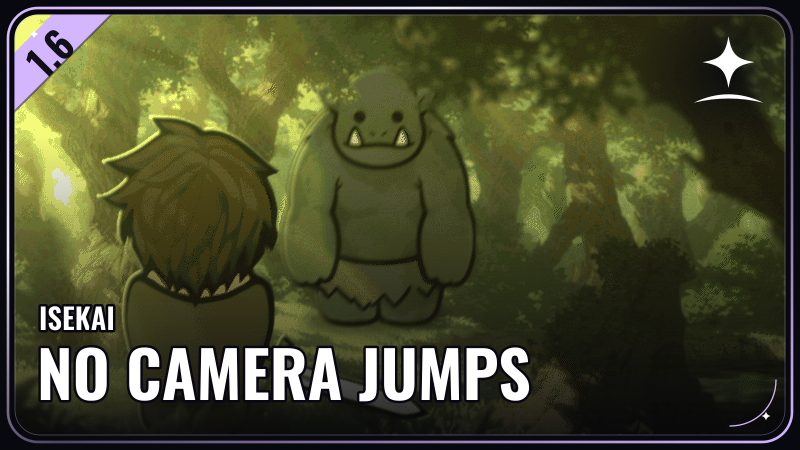
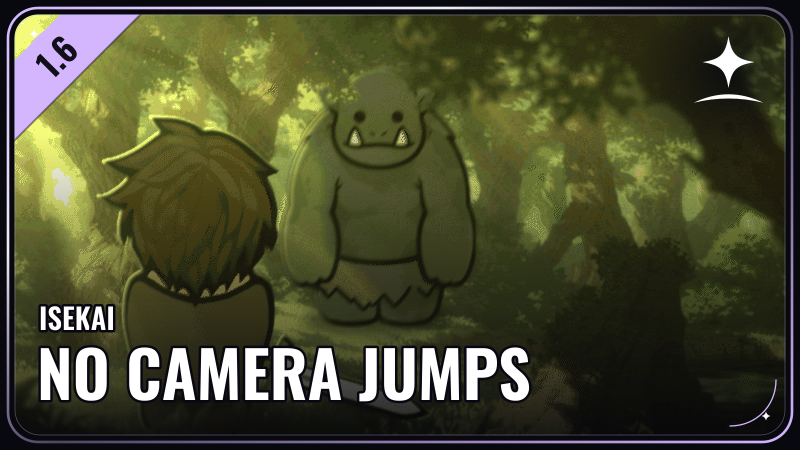
Polish mod covers and format release notes

Changed region(s): [[0.0, 0.0311, 0.1875, 0.3111]]

diff --git a/README.md b/README.md
@@ -1,4 +1,4 @@
-![Star Sky Mods — RimWorld mods, fixes and Russian translations](https://raw.githubusercontent.com/chupakobra6/star-sky-mods-assets/main/assets/star-sky-banner.png)
+![Star Sky Mods — RimWorld mods, fixes and Russian translations](https://raw.githubusercontent.com/chupakobra6/star-sky-assets/main/assets/star-sky-banner.png)
 
 # Star Sky Mods
 
@@ -8,7 +8,7 @@ RimWorld mods, fixes and Russian translations by **chupakobra6**. All releases a
 
 | Balanced Stats | Quick Quests | No Auto Camera Jump |
 | :---: | :---: | :---: |
-| [![ISEKAI Balanced Stats](https://raw.githubusercontent.com/chupakobra6/star-sky-mods-assets/main/assets/isekai-balanced.png)](https://steamcommunity.com/sharedfiles/filedetails/?id=3789339468) | [![ISEKAI Quick Quests](https://raw.githubusercontent.com/chupakobra6/star-sky-mods-assets/main/assets/isekai-quests.png)](https://steamcommunity.com/sharedfiles/filedetails/?id=3802965084) | [![ISEKAI No Auto Camera Jump](https://raw.githubusercontent.com/chupakobra6/star-sky-mods-assets/main/assets/isekai-camera.png)](https://steamcommunity.com/sharedfiles/filedetails/?id=3789336886) |
+| [![ISEKAI Balanced Stats](https://raw.githubusercontent.com/chupakobra6/star-sky-assets/main/assets/isekai-balanced.png)](https://steamcommunity.com/sharedfiles/filedetails/?id=3789339468) | [![ISEKAI Quick Quests](https://raw.githubusercontent.com/chupakobra6/star-sky-assets/main/assets/isekai-quests.png)](https://steamcommunity.com/sharedfiles/filedetails/?id=3802965084) | [![ISEKAI No Auto Camera Jump](https://raw.githubusercontent.com/chupakobra6/star-sky-assets/main/assets/isekai-camera.png)](https://steamcommunity.com/sharedfiles/filedetails/?id=3789336886) |
 | Choose how colonists and pets spend their automatic stat points. | Middle-click an ISEKAI quest letter to accept it when no choice is needed. | Keep your camera in place when local ISEKAI hunts spawn. |
 | [Workshop](https://steamcommunity.com/sharedfiles/filedetails/?id=3789339468) · [Source & guide](mods/IsekaiBalancedStatsQuickQuests) | [Workshop](https://steamcommunity.com/sharedfiles/filedetails/?id=3802965084) · [Source & guide](mods/IsekaiQuickQuests) | [Workshop](https://steamcommunity.com/sharedfiles/filedetails/?id=3789336886) · [Source & guide](mods/IsekaiNoAutoCameraJump) |
 
@@ -26,8 +26,8 @@ Each mod’s guide explains settings, load order and upgrading. Its `CHANGELOG.m
 
 If you enjoy the mods, optional support helps me spend more time building and maintaining them. The mods remain free.
 
-[![Support on Boosty](https://raw.githubusercontent.com/chupakobra6/star-sky-mods-assets/main/assets/button-support.png)](https://boosty.to/chupakobra6?utm_source=github&utm_medium=repository&utm_campaign=star_sky_mods&utm_content=readme&utm_term=support)
-[![Explore other mods](https://raw.githubusercontent.com/chupakobra6/star-sky-mods-assets/main/assets/button-workshop.png)](https://steamcommunity.com/id/chupakobra6/myworkshopfiles/?appid=294100)
+[![Support on Boosty](https://raw.githubusercontent.com/chupakobra6/star-sky-assets/main/assets/button-support.png)](https://boosty.to/chupakobra6?utm_source=github&utm_medium=repository&utm_campaign=star_sky_mods&utm_content=readme&utm_term=support)
+[![Explore other mods](https://raw.githubusercontent.com/chupakobra6/star-sky-assets/main/assets/button-workshop.png)](https://steamcommunity.com/id/chupakobra6/myworkshopfiles/?appid=294100)
 
 ## Source and rights
 

diff --git a/mods/IsekaiBalancedStatsQuickQuests/CHANGELOG.md b/mods/IsekaiBalancedStatsQuickQuests/CHANGELOG.md
@@ -1,18 +1,24 @@
 # Changelog
 
-## 1.2.0 — 2026-09-17
+## 1.2.0 — Balanced Stats, now on its own — 2026-09-17
 
-- Renamed the mod to ISEKAI — Balanced Stats [Star Sky Mods].
-- Moved middle-click quest acceptance into the separate ISEKAI — Quick Quests mod. Subscribe to Quick Quests separately to continue using that shortcut; Balanced Stats works independently.
-- Kept existing colonist and pet stat settings, personal mode choices and allocation progress. Stat-allocation behaviour is unchanged.
-- Removed the quest-acceptance switch from Balanced Stats settings.
-- Changed the package ID from `chupakobra6.isekai.balancedstatsquickquests` to `starsky.rimworld.isekai.balancedstatsquickquests`. Re-enable the mod if the old ID leaves it inactive after updating; stat settings, personal modes and saved allocation progress are retained.
+### Changes
+- **Quick Quests is a separate mod.** Middle-click quest acceptance and its settings have moved out of Balanced Stats. Subscribe to Quick Quests separately to keep the shortcut; either mod works without the other.
+- **Your stat setup stays with you.** Colonist and pet settings, personal modes and allocation progress are retained. Stat allocation itself is unchanged.
+
+### After updating
+- **Re-enable the mod if needed.** The package ID changed from chupakobra6.isekai.balancedstatsquickquests to starsky.rimworld.isekai.balancedstatsquickquests. If RimWorld leaves the old entry inactive, select Balanced Stats again in your mod list.
+
+### Presentation
+- Refreshed the English description and cover, and removed decorative banners from the screenshot gallery.
 
 ## 2026-09-17 — Workshop page
 
 - Refreshed the cover using the original ISEKAI artwork with a Star Sky Mods frame.
 - Expanded feature and installation details in English and Russian; added illustrated sections and links to mods, updates and support.
 - Unified the author credit as chupakobra6 | Star Sky Mods. This page update did not change the downloaded mod files.
+
+
 
 ## 1.1.1 — 2026-08-24
 
@@ -21,6 +27,8 @@
 - Kept the existing Steam Workshop item, 3789339468.
 - Added an explicit mod version to About.xml.
 
+
+
 ## 1.1.0 — 2026-08-24
 
 - Added RimWorld’s standard mod-settings menu.
@@ -28,6 +36,8 @@
 - Added default allocation modes for colonists and pets without personal settings, plus the default automatic-allocation switch for pets.
 - Made mode-change confirmation messages optional.
 - Kept personal colonist and pet state when a global feature was disabled.
+
+
 
 ## 1.0.0 — 2026-08-24
 

diff --git a/mods/IsekaiNoAutoCameraJump/CHANGELOG.md b/mods/IsekaiNoAutoCameraJump/CHANGELOG.md
@@ -1,8 +1,16 @@
 # Changelog
 
-## 1.1.2 — 2026-09-17
+## 1.1.2 — Updated mod identity — 2026-09-17
 
-- Changed the package ID from `chupakobra6.isekai.noautohuntcamerajump` to `starsky.rimworld.isekai.noautohuntcamerajump`. Re-enable the mod if the old ID leaves it inactive after updating. Camera behaviour is unchanged.
+### Changes
+- **Updated the package ID.** It is now starsky.rimworld.isekai.noautohuntcamerajump, replacing chupakobra6.isekai.noautohuntcamerajump.
+- **Camera controls stay the same.** Hunt-camera behaviour and the existing settings are unchanged.
+
+### After updating
+- If RimWorld leaves the old entry inactive, re-enable No Auto Camera Jump in your mod list.
+
+### Presentation
+- Updated the English description, cover and links.
 
 ## 2026-09-17 — Workshop page
 
@@ -10,11 +18,15 @@
 - Expanded the English/Russian feature and installation details; added illustrated sections and links to mods, updates and support.
 - Unified author credit as chupakobra6 | Star Sky Mods. That page-only update did not change the downloaded mod files.
 
+
+
 ## 1.1.1 — 2026-08-24
 
 - Moved the package ID and Harmony ID into the stable chupakobra6 namespace used at that release.
 - Kept the existing Steam Workshop item, 3789336886.
 - Added an explicit mod version to About.xml.
+
+
 
 ## 1.1.0 — 2026-08-24
 
@@ -22,6 +34,8 @@
 - Added separate switches for ordinary ISEKAI hunts and Creatures hunt packs.
 - Kept the existing behaviour with the recommended defaults.
 - Added English and Russian settings text.
+
+
 
 ## 1.0.0 — 2026-08-24
 

diff --git a/mods/IsekaiQuickQuests/CHANGELOG.md b/mods/IsekaiQuickQuests/CHANGELOG.md
@@ -1,9 +1,12 @@
 # Changelog
 
-## 1.0.0 — 2026-09-17
+## 1.0.0 — Quick Quests, a standalone shortcut — 2026-09-17
 
-- Released middle-click ISEKAI quest acceptance as a standalone mod, separated from Balanced Stats & Quick Quests.
-- Accepts available quests only when no pawn, reward or option choice is required. Other ISEKAI quests open in the normal quest tab.
-- Added an independent on/off setting, enabled by default; the old combined mod’s disabled quick-accept setting is not imported.
-- Requires a separate subscription. Update Balanced Stats to 1.2.0 or later before using both mods; Quick Quests also works on its own.
-- Included English and Russian interface text. This mod does not change stat allocation or store colony save data.
+### Added
+- **Accept with a middle-click.** Accept an eligible ISEKAI quest straight from its letter when no pawn, reward or option needs to be chosen.
+- **Keep the normal quest flow when a choice is needed.** Those quests open the usual quest tab instead of being accepted automatically.
+- **A separate on/off setting.** The shortcut starts enabled. English and Russian interface text is included.
+
+### Using both add-ons
+- Update Balanced Stats to 1.2.0 or later before enabling both mods. Quick Quests also works on its own.
+- A disabled quick-accept setting from the old combined mod is not imported; turn the shortcut off in Quick Quests settings if preferred.
